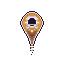
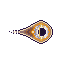
Cambio en angulo de rotacion de bala

Changed region(s): [[0.1562, 0.1562, 0.8438, 0.8438], [0.4688, 0.8438, 0.5, 0.875], [0.125, 0.4688, 0.1562, 0.5]]

diff --git a/bin/MagicSpacialShooter/client/renderer.py b/bin/MagicSpacialShooter/client/renderer.py
@@ -378,8 +378,7 @@ class Renderer:
             else:  # formato legacy [x, y, angle]
                 x = bullet[0]
                 y = bullet[1]
-                angle = bullet[2]
-            
+                angle = bullet[2]     
             sprite = arcade.Sprite()
             sprite.texture = self.spell
             sprite.center_x = x

diff --git a/bin/MagicSpacialShooter/client/main_client.py b/bin/MagicSpacialShooter/client/main_client.py
@@ -98,7 +98,7 @@ class GameWindow(arcade.Window):
         """Limpieza al cerrar"""
         if self.net_thread:
             self.net_thread.stop()
-            self.net_thread.join()
+            self.net_thread.join(1000)
         print("Cliente cerrado")
         self.close()
 

diff --git a/bin/MagicSpacialShooter/server/bullet_manager.py b/bin/MagicSpacialShooter/server/bullet_manager.py
@@ -7,7 +7,7 @@ class Bullet:
         self.owner_id = owner_id
         self.x = x
         self.y = y
-        self.angle = angle_deg
+        self.angle = -angle_deg
         self.lifetime = constants.BULLET_LIFETIME
         
         # Calcular velocidad basada en el ángulo

diff --git a/bin/MagicSpacialShooter/client/config.py b/bin/MagicSpacialShooter/client/config.py
@@ -26,7 +26,7 @@ PLAYER_SPEED = 200  # pixels por segundo
 POWERUP_SIZE = 24
 POWERUP_SPAWN_COUNT = 5  # Cantidad inicial de power-ups en el mapa
 
-SERVER_IP = "10.147.19.237"
+SERVER_IP = "localhost"
 SERVER_INPUT_PORT = 5555
 SERVER_STATE_PORT = 5556
 
